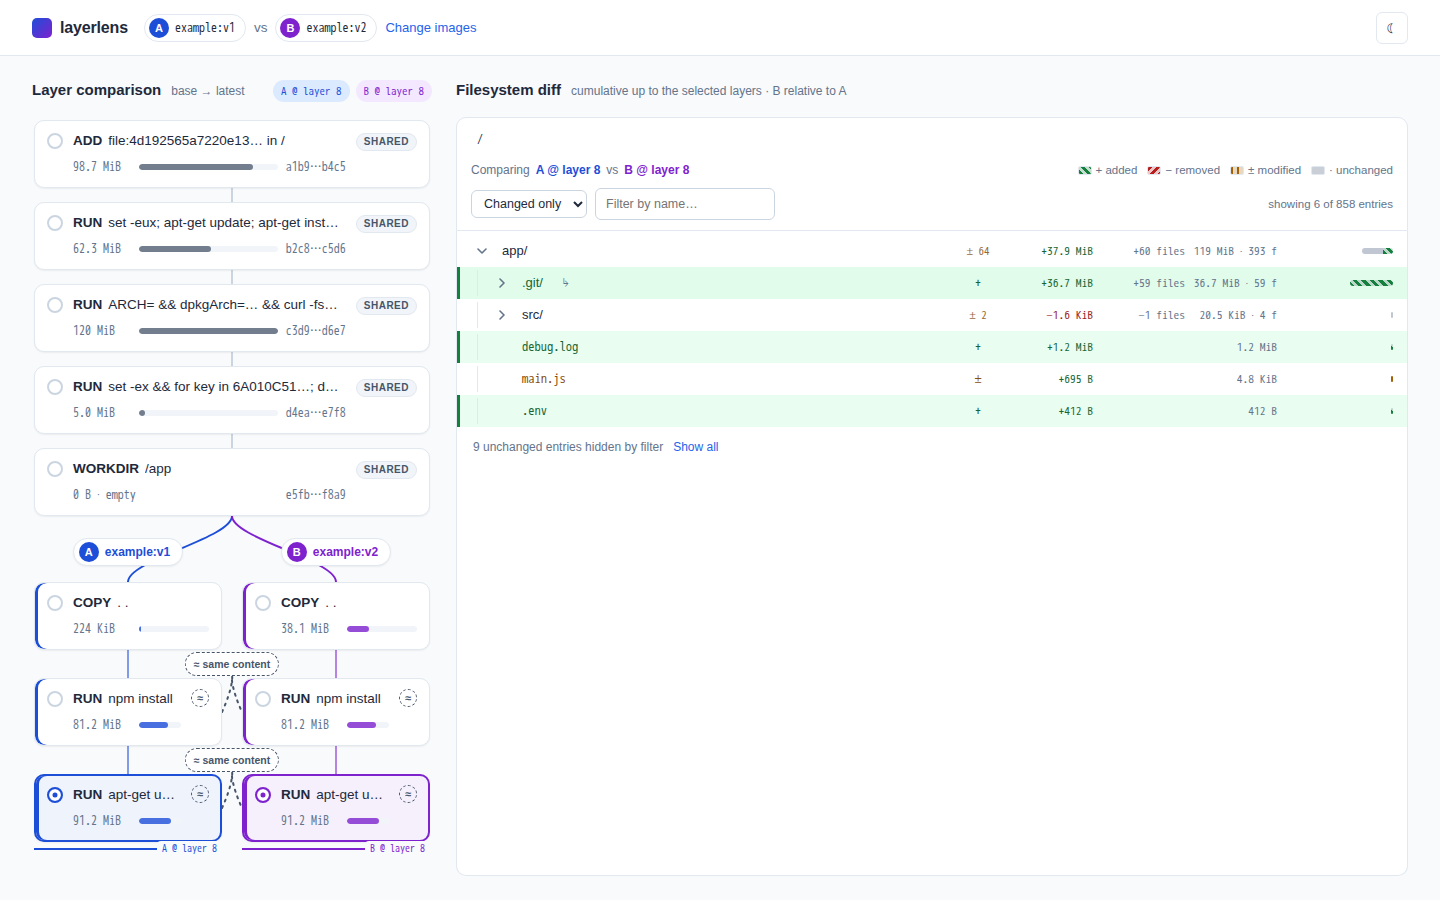
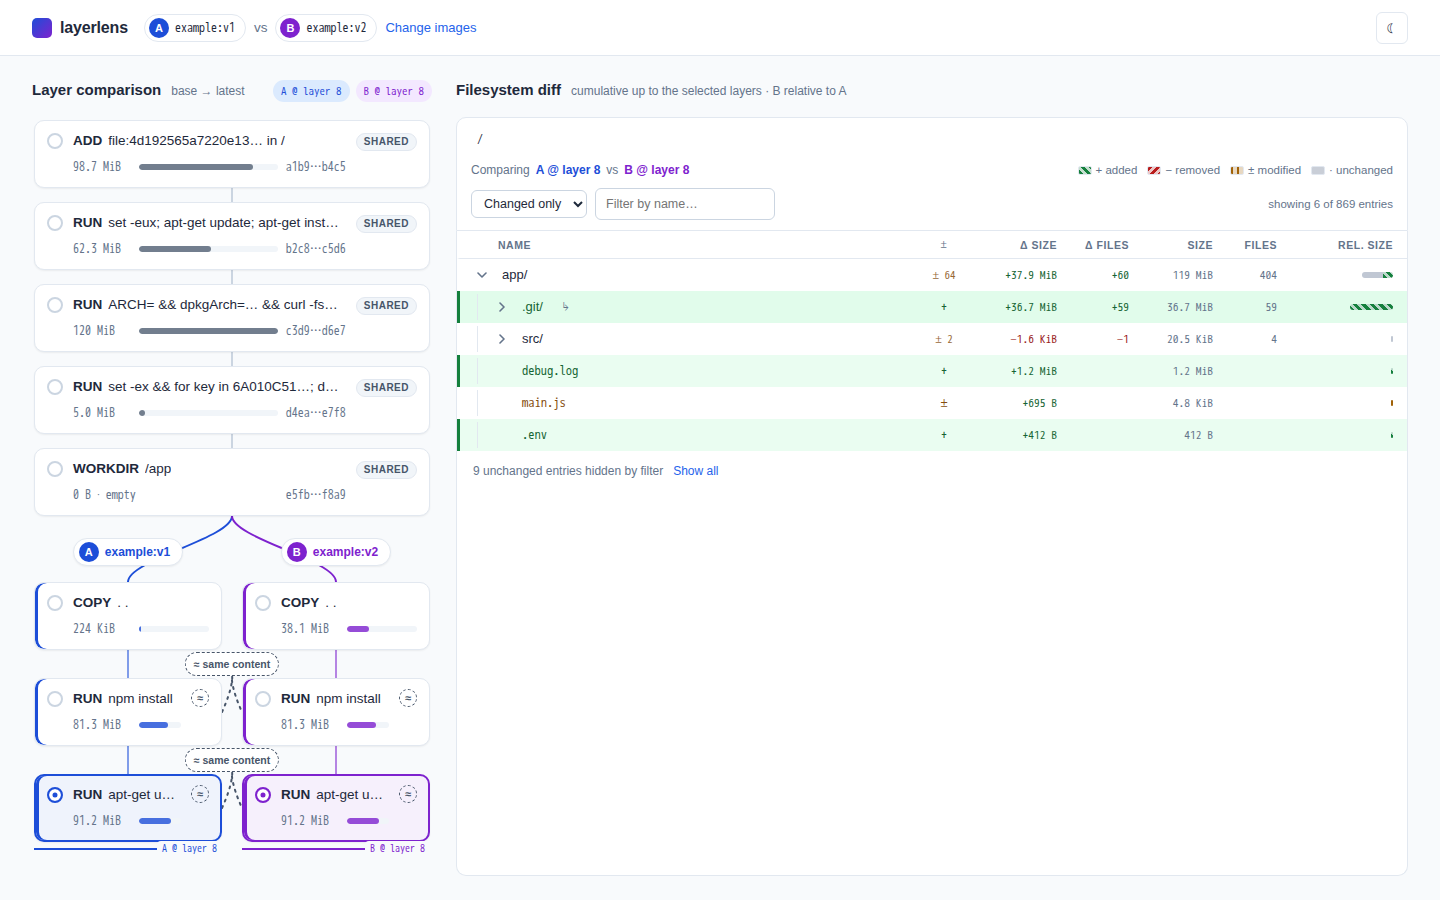
Fix filesystem tree view defects from design review
Add a sticky column header row sharing one grid definition with the rows,
so numeric columns stay aligned at every indent depth while the name
column indents. Give each numeric column a fixed track sized from worst
plausible content with tabular numerals and no wrapping. Split the
composite totals into labelled columns, removing the unreadable '393 f'
suffix. Repair a dead responsive rule so header and cells drop together.

Changed region(s): [[0.3125, 0.2489, 1.0, 0.5289]]

diff --git a/.planning/prototype/styles.css b/.planning/prototype/styles.css
@@ -173,7 +173,12 @@ html[data-theme=dark] .set-btn { color:#0b1120; }
 
 /* ---------- browse view ---------- */
 .browse { display:grid; grid-template-columns:400px minmax(560px,1fr); gap:24px; padding:24px 32px; height:100%; min-height:0; }
-@media (max-width:1279px){ .browse { grid-template-columns:360px minmax(0,1fr); padding:24px; gap:24px; } .fscol .col-files { display:none; } }
+@media (max-width:1279px){
+  .browse { grid-template-columns:360px minmax(0,1fr); padding:24px; gap:24px; }
+  /* drop both file-count columns; data stays in the row tooltip / SR text */
+  .tgrid { grid-template-columns:minmax(0,1fr) 42px 84px 76px 108px; }
+  .col-dfiles, .col-filesb, .cell-dfiles, .cell-filesb { display:none; }
+}
 .col { min-height:0; display:flex; flex-direction:column; }
 .section-head { display:flex; align-items:baseline; gap:10px; margin-bottom:16px; flex:none; flex-wrap:wrap; }
 .section-head h2 { font-size:15px; font-weight:600; margin:0; }
@@ -273,11 +278,30 @@ input.search {
 }
 .showing { font-size:11.5px; color:var(--text-muted); margin-left:auto; }
 .tree-wrap { border:1px solid var(--border); border-top:none; border-radius:0 0 10px 10px; background:var(--surface); overflow:auto; flex:1; min-height:0; }
-.tree { padding:4px 0; }
-.trow {
-  display:grid; grid-template-columns:minmax(0,1fr) 30px 92px 84px 84px 108px; align-items:center;
-  height:32px; padding:0 14px 0 8px; font-size:13px; column-gap:8px;
+.tree { padding:0 0 4px; }
+/* shared column grid — header and rows use the SAME template so numeric
+   columns can never drift; indentation lives inside the fluid name cell.
+   Widths reserve the worst plausible rendering (see DESIGN.md §5.3):
+   status "± 9.9M" · Δ size "−1023.9 MiB" · Δ files "+999,999" ·
+   Size "1023.9 MiB" · Files "999,999" · bar track 96px */
+.tgrid {
+  display:grid; grid-template-columns:minmax(0,1fr) 42px 84px 64px 76px 56px 108px;
+  align-items:center; column-gap:8px; padding:0 14px 0 8px;
   border-left:3px solid transparent;
+}
+.tree-head {
+  position:sticky; top:0; z-index:2; height:28px;
+  background:var(--surface); border-bottom:1px solid var(--border);
+  font-size:10.5px; font-weight:600; letter-spacing:.05em; text-transform:uppercase;
+  color:var(--text-muted);
+}
+.tree-head > div { white-space:nowrap; overflow:hidden; }
+.tree-head .h-name { padding-left:30px; } /* clears the chevron gutter */
+.tree-head .h-status { text-align:center; font-family:var(--mono); }
+.tree-head .h-num, .tree-head .h-bar { text-align:right; font-variant-numeric:normal; }
+.tree-head [title] { cursor:help; }
+.trow {
+  height:32px; font-size:13px;
 }
 .trow:hover { background:var(--surface-2); }
 .trow .cell-name { display:flex; align-items:center; min-width:0; gap:2px; }
@@ -313,15 +337,18 @@ button.fname:hover { text-decoration:underline; text-underline-offset:2px; }
 }
 .trow:hover .drill.dir, .trow:focus-within .drill.dir { display:inline-flex; }
 .drill:hover { background:color-mix(in srgb, var(--text-muted) 14%, transparent); color:var(--text); }
-.cell-status { text-align:center; font-weight:650; font-family:var(--mono); font-size:12px; color:var(--text-muted); }
+.cell-status { text-align:center; font-weight:650; font-family:var(--mono); font-size:12px; color:var(--text-muted); white-space:nowrap; }
 .cell-status .contains { color:var(--modified-strong); font-weight:600; font-size:11px; opacity:.85; }
-.cell-delta, .cell-files, .cell-size { font-family:var(--mono); font-size:11.5px; text-align:right; white-space:nowrap; }
-.cell-delta.pos { color:var(--added-strong); } .cell-delta.neg { color:var(--removed-strong); }
+/* numeric cells: right-aligned, mono/tabular, and NEVER allowed to wrap —
+   widths in .tgrid are reserved for the worst case instead */
+.cell-delta, .cell-dfiles, .cell-size, .cell-filesb { font-family:var(--mono); font-size:11.5px; text-align:right; white-space:nowrap; font-variant-numeric:tabular-nums; }
+.cell-delta.pos, .cell-dfiles.pos { color:var(--added-strong); }
+.cell-delta.neg, .cell-dfiles.neg { color:var(--removed-strong); }
 .cell-delta.mix { color:var(--modified-strong); }
-.cell-delta.zero, .cell-files.zero { color:var(--text-muted); opacity:.6; }
-.cell-files { color:var(--text-muted); }
-.cell-size { color:var(--text-muted); }
-.cell-size.gone { text-decoration:line-through; opacity:.7; }
+.cell-delta.zero, .cell-dfiles.zero { color:var(--text-muted); opacity:.6; }
+.cell-dfiles { color:var(--text-muted); }
+.cell-size, .cell-filesb { color:var(--text-muted); }
+.cell-size.gone, .cell-filesb.gone { text-decoration:line-through; opacity:.7; }
 .cell-bar { display:flex; justify-content:flex-end; }
 .sbar { width:96px; height:6px; border-radius:3px; background:var(--surface-2); overflow:hidden; display:flex; }
 .sbar i { display:block; height:100%; }

diff --git a/.planning/prototype/app.js b/.planning/prototype/app.js
@@ -354,8 +354,9 @@
       mk(p, acc, i === parts.length - 1);
     });
   }
+  const compact = n => n < 1000 ? String(n) : new Intl.NumberFormat("en", { notation: "compact", maximumFractionDigits: 1 }).format(n);
   function rowFor(node, path, depth) {
-    const row = el("div", "trow st-" + node.status);
+    const row = el("div", "trow tgrid st-" + node.status);
     row.setAttribute("role", "treeitem"); row.setAttribute("aria-level", depth + 1);
     const isDir = node.kind === "dir";
     const open = state.expanded.has(path) || !!state.search;
@@ -381,21 +382,27 @@
     row.appendChild(name);
     // status
     let st;
+    const nCh = node.addN + node.remN + node.modN;
     if (node.status === "added") st = "+"; else if (node.status === "removed") st = "−";
-    else if (node.status === "modified") st = "±"; else if (node.status === "contains") st = '<span class="contains" title="' + (node.addN + node.remN + node.modN) + ' changed descendants">± ' + (node.addN + node.remN + node.modN) + "</span>";
+    else if (node.status === "modified") st = "±"; else if (node.status === "contains") st = '<span class="contains" title="' + nCh.toLocaleString() + ' changed descendants">± ' + compact(nCh) + "</span>";
     else st = "·";
     row.appendChild(el("div", "cell-status", st));
-    // deltas
+    // Δ size — signed human size; headers carry the meaning, cells carry only the value
     const dBytes = node.bSize - node.aSize;
     const dcls = node.status === "modified" || node.status === "contains" ? (dBytes > 0 ? "pos" : dBytes < 0 ? "neg" : "zero") : node.status === "added" ? "pos" : node.status === "removed" ? "neg" : "zero";
     row.appendChild(el("div", "cell-delta num " + dcls, signed(dBytes)));
+    // Δ files — signed count, no unit suffix (the header labels it); blank on file rows
     const dFiles = node.bFiles - node.aFiles;
-    row.appendChild(el("div", "cell-files num" + (dFiles === 0 ? " zero" : ""), node.kind === "file" ? "" : dFiles === 0 ? "—" : signedN(dFiles) + " files"));
-    // total (B side; struck A side when removed)
+    row.appendChild(el("div", "cell-dfiles num " + (node.kind === "file" ? "" : dFiles > 0 ? "pos" : dFiles < 0 ? "neg" : "zero"), node.kind === "file" ? "" : dFiles === 0 ? "—" : signedN(dFiles)));
+    // Size + Files — B-side absolutes (A-side struck through when removed; A totals in tooltip)
     const gone = node.status === "removed";
-    const totalCell = el("div", "cell-size num" + (gone ? " gone" : ""), human(gone ? node.aSize : node.bSize) + (node.kind === "dir" && !gone ? " · " + node.bFiles.toLocaleString() + " f" : ""));
-    totalCell.title = "A: " + human(node.aSize) + " (" + node.aFiles.toLocaleString() + " files) → B: " + human(node.bSize) + " (" + node.bFiles.toLocaleString() + " files)";
-    row.appendChild(totalCell);
+    const abTitle = "A: " + human(node.aSize) + " (" + node.aFiles.toLocaleString() + " files) → B: " + human(node.bSize) + " (" + node.bFiles.toLocaleString() + " files)";
+    const sizeCell = el("div", "cell-size num" + (gone ? " gone" : ""), human(gone ? node.aSize : node.bSize));
+    sizeCell.title = abTitle;
+    row.appendChild(sizeCell);
+    const filesCell = el("div", "cell-filesb num" + (gone ? " gone" : ""), node.kind === "file" ? "" : (gone ? node.aFiles : node.bFiles).toLocaleString());
+    filesCell.title = abTitle;
+    row.appendChild(filesCell);
     // bar
     const bar = el("div", "cell-bar");
     const sb = el("div", "sbar"); sb.setAttribute("aria-hidden", "true");

diff --git a/.planning/prototype/index.html b/.planning/prototype/index.html
@@ -123,7 +123,18 @@
           <span id="showing" class="showing"></span>
         </div>
       </div>
-      <div class="tree-wrap"><div id="tree" class="tree" role="tree" aria-label="Filesystem diff"></div></div>
+      <div class="tree-wrap">
+        <div class="tree-head tgrid" aria-hidden="true">
+          <div class="h-name">Name</div>
+          <div class="h-status" title="Change status: + added, − removed, ± modified, · unchanged. On a directory, ± N counts changed descendants.">±</div>
+          <div class="h-num" title="Change in total size, B relative to A">Δ size</div>
+          <div class="h-num col-dfiles" title="Change in file count, B relative to A">Δ files</div>
+          <div class="h-num" title="Total size in image B — hover a row for the A-side totals">Size</div>
+          <div class="h-num col-filesb" title="Total file count in image B — hover a row for the A-side totals">Files</div>
+          <div class="h-bar" title="Size relative to the largest sibling; hatched segments are the added / removed / modified portions">Rel. size</div>
+        </div>
+        <div id="tree" class="tree" role="tree" aria-label="Filesystem diff"></div>
+      </div>
     </div>
   </div>
 </div>

diff --git a/.planning/prototype/fixtures.js b/.planning/prototype/fixtures.js
@@ -97,6 +97,12 @@
   nm.push(F("/app/node_modules/undici/lib/llhttp/llhttp.wasm", 2148069));
   for (let i = 0; i < 14; i++) nm.push(F("/app/node_modules/.bin/bin" + i, sz(300, 2e3)));
   nm.push(F("/app/node_modules/lodash/lodash.js", 66601536)); // fat demo blob so node_modules dominates
+  // deep-indent case (DESIGN.md §5.3): proves header/row column alignment holds at depth
+  const babel = "/app/node_modules/@babel/plugin-transform-runtime/";
+  nm.push(F(babel + "package.json", 1522), F(babel + "README.md", 2214), F(babel + "LICENSE", 1106));
+  nm.push(F(babel + "lib/index.js", 24618), F(babel + "lib/definitions.js", 9412), F(babel + "lib/helpers.js", 3187));
+  nm.push(F(babel + "lib/get-runtime-path/index.js", 3121), F(babel + "lib/get-runtime-path/browser.js", 918));
+  nm.push(F("/app/node_modules/@babel/runtime/package.json", 2380), F("/app/node_modules/@babel/runtime/helpers/esm/inherits.js", 431), F("/app/node_modules/@babel/runtime/helpers/inherits.js", 486));
 
   // ---- ffmpeg apt layer (IDENTICAL in both → could-be-shared) ------------
   const ff = [F("/usr/bin/ffmpeg", 285816), F("/usr/bin/ffprobe", 199224), F("/usr/bin/ffplay", 166840)];

diff --git a/.planning/DESIGN.md b/.planning/DESIGN.md
@@ -153,7 +153,7 @@ recoverable": via title-tooltip, popover, or copy affordance.
 | Full paths (breadcrumbs) | **Collapse middle crumbs** | Show root + `…` + last 2 crumbs when > available width; the `…` is a button that opens a menu of the hidden crumbs. |
 | Dockerfile instructions on layer cards | **Truncate-end, single line** + popover | Card shows first line, stripped of `/bin/sh -c` / `# buildkit` decoration. Click/hover opens popover with the *raw* multi-line instruction in mono, pre-wrapped, max-height 40vh with internal scroll (heredoc RUNs can be pages long). |
 | Image refs (`ghcr.io/org/name:tag`) | **Truncate-start** (`direction:rtl` trick or JS) | The tail (`name:tag`) is the identifying part; leading registry/namespace elides first: `…org/very-long-name:v2`. Tooltip shows full ref. |
-| Sizes / counts | **Never truncate** | Always short by construction: human units, ≤9 chars (`999.9 MiB`). Column reserved at fixed width, right-aligned, tabular-nums. |
+| Sizes / counts | **Never truncate, never wrap** | Short by construction (human units) *and* the column reserves the worst plausible rendering, not the current data: `Δ size` fits `−1023.9 MiB` (84px), `Δ files` fits `+999,999` (64px), `Size` fits `1023.9 MiB` (76px), `Files` fits `999,999` (56px), status fits `± 9.9M` (42px) — all right-aligned, mono, tabular-nums, `white-space: nowrap`. Counts ≥1M keep fitting because the status summary uses compact notation (§5.3) and file counts in images are bounded well below 100M. |
 | Error messages | Wrap, max 3 lines, then "Show details" disclosure | Never clip an error silently. |
 | Tooltips/popovers themselves | max-width 480px, wrap, internal scroll beyond 40vh | |
 
@@ -412,13 +412,48 @@ Comparing A @ layer 6 (…v1)  vs  B @ layer 7 (…v2)      + added − removed 
   the loaded window (§10).
 - **Legend**: the three glyph+swatch(hatched) pairs; hover explains each.
 
+#### Tree columns & header
+
+Fixed 32px row height (virtualized). One shared column grid — used by the
+header row *and* every tree row — so the two can never drift:
+
+```
+[ Name (fluid) ][ ± 42px ][ Δ size 84px ][ Δ files 64px ][ Size 76px ][ Files 56px ][ Rel. size 108px ]
+   [indent][▸][name……]       −1023.9 MiB     +999,999       1023.9 MiB    999,999      ▕██▓▓░░▏
+```
+
+- **Header row**: persistent and **sticky** (`position: sticky; top: 0`) at
+  the top of the tree's scroll container, opaque surface background +
+  bottom border so rows scroll beneath it. `text-label` styling (uppercase,
+  muted). It is `aria-hidden` — the tree is `role=tree`, not a table, and
+  every row's SR text already spells out each value with its meaning (§7).
+- **Alignment invariant**: indentation (guides + chevron) lives *inside* the
+  fluid Name cell; every numeric column is a fixed grid track. The header
+  therefore stays aligned with the rows at every depth by construction —
+  there is nothing depth-dependent outside the Name cell.
+- **Column set** — `Name | ± | Δ size | Δ files | Size | Files | Rel. size`:
+  the Δ pair sits directly after the status glyph because "what changed" is
+  the tool's primary question; the absolute pair follows as the "after"
+  context; the bar stays outermost as a purely visual summary. Absolute
+  columns are the **B-side** totals (the after state) — keeping the existing
+  decision that A-side totals live in the row tooltip. Two labeled absolute
+  columns replace the old `142 MiB · 393 f` composite cell: the unit-suffix
+  jargon (`f`) is gone, and delta vs absolute is disambiguated by the
+  headers, not by inline suffixes.
+- **Header labels + tooltips** (label short, meaning in `title`):
+  - `±` — "Change status: + added, − removed, ± modified, · unchanged; on a
+    directory, ± N counts changed descendants."
+  - `Δ size` — "Change in total size, B relative to A."
+  - `Δ files` — "Change in file count, B relative to A."
+  - `Size` — "Total size in image B — hover a row for the A-side totals."
+  - `Files` — "Total file count in image B — hover a row for the A-side totals."
+  - `Rel. size` — "Size relative to the largest sibling; hatched segments
+    are the added / removed / modified portions."
+- **Fixed widths** are sized from the worst plausible content, not the
+  fixture (§3): nothing in a numeric column may ever wrap or overflow.
+  Numeric cells are right-aligned, mono, tabular-nums, `white-space: nowrap`.
+
 #### Tree rows
-
-Fixed 32px height (virtualized). Column grid:
-
-```
-[indent][▸][icon][name………………][status][Δ size][files Δ][total size][size bar]
-```
 
 - **Disclosure triangle**: 16px hit area 24px, rotates 90° in 120ms when
   open; only on directories; `cursor:pointer`. Chevron area toggles;
@@ -432,12 +467,17 @@ Fixed 32px height (virtualized). Column grid:
 - **Status glyph + color** (never color alone): `+` added, `−` removed,
   `±` modified, `·` unchanged, in the status column and colored per token.
   Screen-reader text spelled out (§7).
-- **Deltas**: signed human sizes (`+14.3 MiB`) colored per polarity; file
-  count delta (`+312 files`). Zero deltas render as muted `—`.
-- **Total size / files**: the *B-side* cumulative subtree totals (the "after"
-  state), with the A-side totals in the row tooltip; rationale: one column of
-  truth plus delta beats four columns of numbers. Removed entries show their
-  A-side size in the total column, struck through.
+- **Δ size / Δ files**: signed values colored per polarity — `+14.3 MiB`,
+  `+312`. Size units stay (they *are* the value); the ` files` word and any
+  other unit suffix are dropped — the column header carries the meaning.
+  Zero deltas render as muted `—`. File rows leave `Δ files` empty (a file
+  is not a subtree; its add/remove is already the status glyph).
+- **Size / Files**: the *B-side* cumulative subtree totals (the "after"
+  state) in two labeled columns, with the A-side totals in the row tooltip
+  (`A: 98.4 MiB (393 files) → B: 119 MiB (453 files)`) on both cells;
+  rationale: one side of truth plus deltas beats four columns of numbers.
+  File rows show their own size and leave `Files` empty. Removed entries
+  show their A-side values in both columns, struck through.
 - **Size bar**: 6px, right-aligned fixed 96px track; width = subtree size /
   largest sibling subtree at this level (per-sibling-group normalization —
   the spec's "relative sizes of each entry"). Segmented fill: unchanged
@@ -454,7 +494,9 @@ Fixed 32px height (virtualized). Column grid:
     inherit their own explicit states (all added/removed).
   - *Directory merely containing changes*: **no tint** — surface row, dir
     name in `--text`, but the status column shows a small stacked-dot
-    change summary `± 12` in muted amber meaning "12 changed descendants",
+    change summary `± 12` in muted amber meaning "12 changed descendants"
+    (counts ≥1,000 render compactly — `± 1.2K`, `± 9.9M` — so the 42px
+    status column never overflows; the exact count is in the tooltip),
     and its size bar shows the hatched change segments. This is the visual
     rule that separates "changed container" from "changed thing".
   - *Unchanged*: muted name (`--text-muted`), `·` glyph, no bar texture.
@@ -513,7 +555,9 @@ skeleton shimmer and the armed-slot pulse.
 - **Row SR text**: composed as e.g. "node_modules, directory, modified
   contents: 312 files added, 14.3 mebibytes added, total 142 mebibytes,
   level 2, 5 of 9". Status is *words*, never glyph-only; bars are
-  `aria-hidden` (their data is in the text).
+  `aria-hidden` (their data is in the text), and so is the sticky column
+  header (§5.3) — `role=tree` has no column semantics, so the header is a
+  purely visual legend whose meanings the row SR text already carries.
 - **Focus order**: header → slot A → slot B → Compare → tabs → panel content
   (selection view); header → layer groups (A then B) → toolbar → tree
   (browse view). No focus traps; popovers return focus on close.
@@ -533,8 +577,9 @@ below that we do not optimize (no mobile).
 
 - ≥1280px: browse view two columns (400px + fluid), page gutter 32px.
 - 1024–1279px: left column narrows to 360px (branch cards drop the digest
-  line into the tooltip), gutter 24px, tree hides the *files Δ* column
-  (data remains in tooltip/SR text).
+  line into the tooltip), gutter 24px, tree hides both file-count columns
+  (`Δ files` and `Files`) in rows *and* header (data remains in the row
+  tooltip/SR text); the size columns and their headers stay.
 - <1024px (unsupported but non-broken): columns stack vertically — layer
   section first at natural height (own scroll capped 50vh), diff below;
   a floating "A @ 6 · B @ 7" chip keeps selection context while scrolled
@@ -630,7 +675,10 @@ below that we do not optimize (no mobile).
   to each selected point, then diffed), so layer selection genuinely changes
   the tree — including the all-unchanged trunk-point case.
 - Tree supports disclosure, drill-down with breadcrumbs, changed-only filter,
-  per-sibling-normalized hatched size bars.
+  per-sibling-normalized hatched size bars, and the sticky column header
+  (§5.3); the fixture includes the deep path
+  `/app/node_modules/@babel/plugin-transform-runtime/lib/get-runtime-path/`
+  to prove header/row column alignment holds at depth.
 - Simplifications vs this spec: no virtualization, no keyboard nav, no
   popovers (title tooltips only), pull progress is a static mock, and the
   degenerate fork cases are not interactive (described in §5.2 only).
